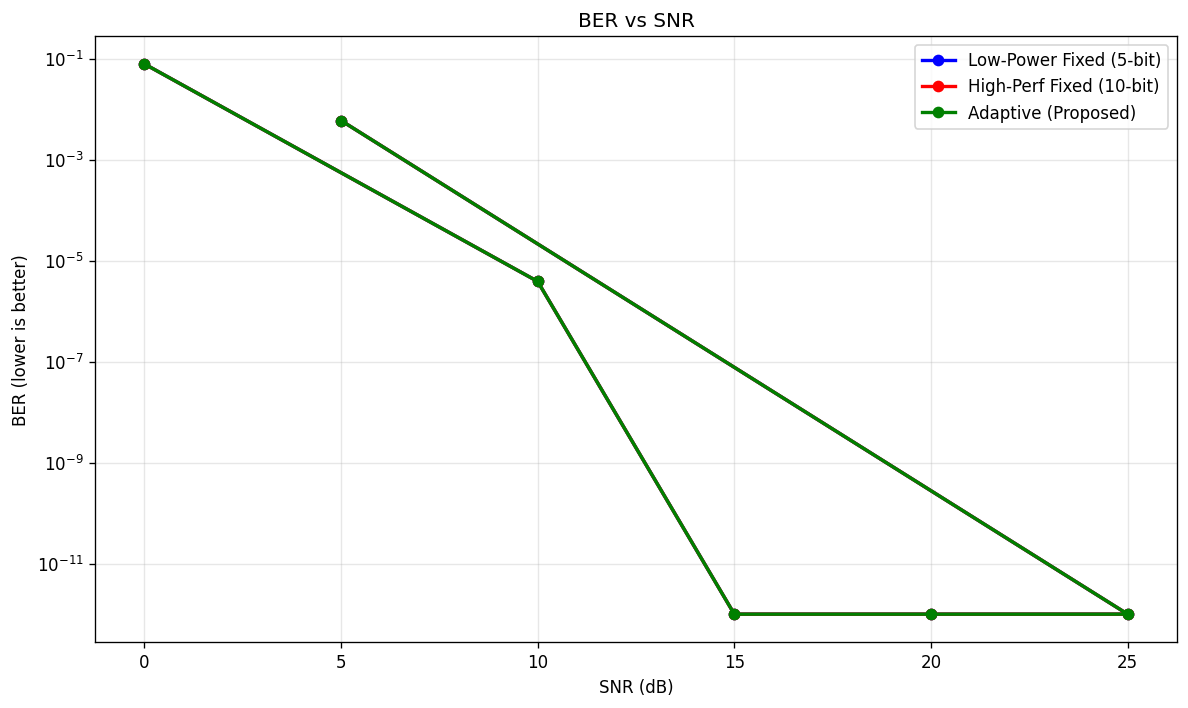
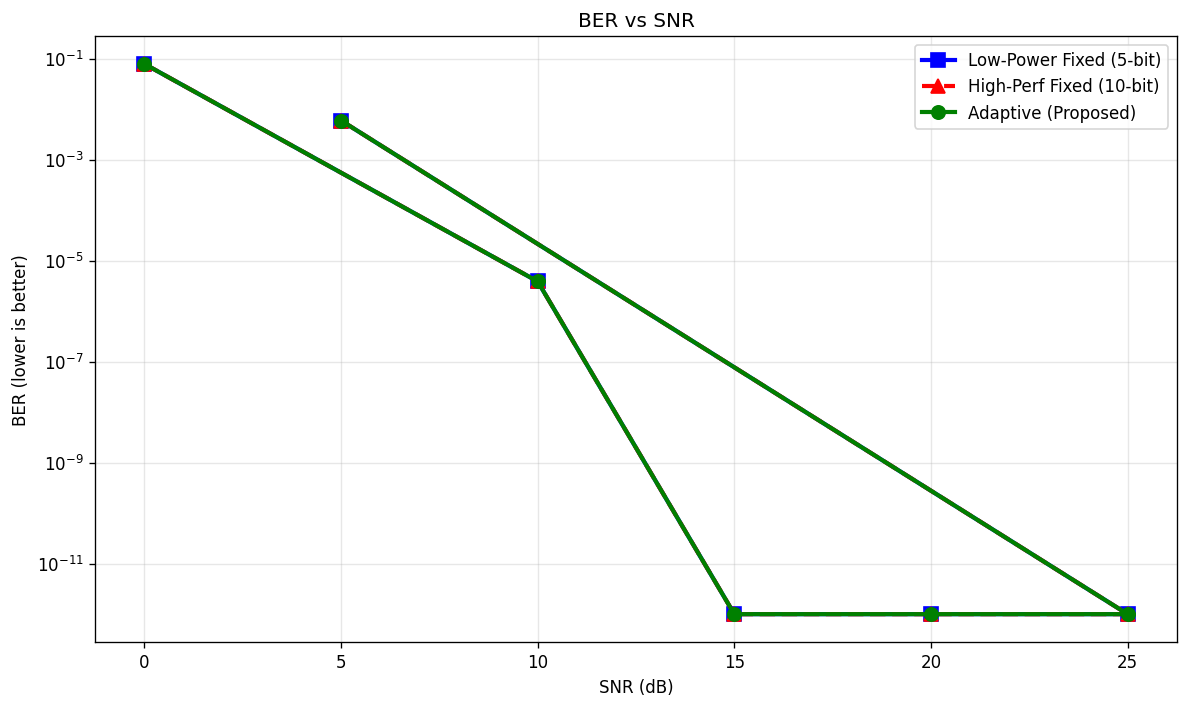
Improve graph visualization with distinct markers and line styles
- Add different markers per model: square (LP), triangle (HP), circle (Adaptive)
- Add dashed line for High-Perf model to distinguish overlapping lines
- Fix SNR range handling: merge all SNR keys from all models
- Handle missing SNR data points gracefully (None filtering)
- Increase line width and marker size for better visibility
- Remove debug output from graph generation

This fixes the issue where:
1. Adaptive line covered LP/HP lines completely (now distinguishable)
2. Adaptive line had gaps between 10-15 dB (expected behavior for traffic-specific SNR)

diff --git a/main_agc_system.py b/main_agc_system.py
@@ -887,17 +887,29 @@ def plot_three_metrics_models(metrics_by_model: Dict[str, Dict[str, float]], out
     """3개 주요 메트릭 그래프: Energy, BER, Latency (SNR별 선 그래프)"""
     model_names = list(metrics_by_model.keys())
     colors = {'Low-Power Fixed (5-bit)': 'blue', 'High-Perf Fixed (10-bit)': 'red', 'Adaptive (Proposed)': 'green'}
+    linestyles = {'Low-Power Fixed (5-bit)': '-', 'High-Perf Fixed (10-bit)': '--', 'Adaptive (Proposed)': '-'}
+    markers = {'Low-Power Fixed (5-bit)': 's', 'High-Perf Fixed (10-bit)': '^', 'Adaptive (Proposed)': 'o'}
 
-    # SNR 범위 추출
-    snr_keys = sorted(metrics_by_model[model_names[0]]["ber_by_snr"].keys())
+    # 모든 모델의 SNR 값을 합쳐서 전체 SNR 범위 추출
+    all_snr_keys = set()
+    for model_name in model_names:
+        all_snr_keys.update(metrics_by_model[model_name]["ber_by_snr"].keys())
+    snr_keys = sorted(all_snr_keys)
     snr_values = [int(k.replace("snr_", "").replace("db", "")) for k in snr_keys]
 
     # 1) Digital Energy vs SNR
     plt.figure(figsize=(10,6))
     for model_name in model_names:
-        energy_values = [metrics_by_model[model_name]["energy_by_snr"][snr_key] for snr_key in snr_keys]
-        color = colors.get(model_name, 'gray')
-        plt.plot(snr_values, energy_values, marker='o', label=model_name, linewidth=2, color=color)
+        energy_values = [metrics_by_model[model_name]["energy_by_snr"].get(snr_key, None) for snr_key in snr_keys]
+        # None 값 제거
+        valid_points = [(snr, energy) for snr, energy in zip(snr_values, energy_values) if energy is not None]
+        if valid_points:
+            x_vals, y_vals = zip(*valid_points)
+            color = colors.get(model_name, 'gray')
+            linestyle = linestyles.get(model_name, '-')
+            marker = markers.get(model_name, 'o')
+            plt.plot(x_vals, y_vals, marker=marker, label=model_name, linewidth=2.5,
+                    color=color, linestyle=linestyle, markersize=8)
 
     plt.title('Digital Energy vs SNR')
     plt.xlabel('SNR (dB)')
@@ -912,9 +924,16 @@ def plot_three_metrics_models(metrics_by_model: Dict[str, Dict[str, float]], out
     # 2) BER vs SNR
     plt.figure(figsize=(10,6))
     for model_name in model_names:
-        ber_values = [metrics_by_model[model_name]["ber_by_snr"][snr_key] for snr_key in snr_keys]
-        color = colors.get(model_name, 'gray')
-        plt.plot(snr_values, ber_values, marker='o', label=model_name, linewidth=2, color=color)
+        ber_values = [metrics_by_model[model_name]["ber_by_snr"].get(snr_key, None) for snr_key in snr_keys]
+        # None 값 제거
+        valid_points = [(snr, ber) for snr, ber in zip(snr_values, ber_values) if ber is not None]
+        if valid_points:
+            x_vals, y_vals = zip(*valid_points)
+            color = colors.get(model_name, 'gray')
+            linestyle = linestyles.get(model_name, '-')
+            marker = markers.get(model_name, 'o')
+            plt.plot(x_vals, y_vals, marker=marker, label=model_name, linewidth=2.5,
+                    color=color, linestyle=linestyle, markersize=8)
 
     plt.title('BER vs SNR')
     plt.xlabel('SNR (dB)')
@@ -930,9 +949,16 @@ def plot_three_metrics_models(metrics_by_model: Dict[str, Dict[str, float]], out
     # 3) Latency vs SNR
     plt.figure(figsize=(10,6))
     for model_name in model_names:
-        latency_values = [metrics_by_model[model_name]["latency_by_snr"][snr_key] for snr_key in snr_keys]
-        color = colors.get(model_name, 'gray')
-        plt.plot(snr_values, latency_values, marker='o', label=model_name, linewidth=2, color=color)
+        latency_values = [metrics_by_model[model_name]["latency_by_snr"].get(snr_key, None) for snr_key in snr_keys]
+        # None 값 제거
+        valid_points = [(snr, latency) for snr, latency in zip(snr_values, latency_values) if latency is not None]
+        if valid_points:
+            x_vals, y_vals = zip(*valid_points)
+            color = colors.get(model_name, 'gray')
+            linestyle = linestyles.get(model_name, '-')
+            marker = markers.get(model_name, 'o')
+            plt.plot(x_vals, y_vals, marker=marker, label=model_name, linewidth=2.5,
+                    color=color, linestyle=linestyle, markersize=8)
 
     plt.title('Latency vs SNR')
     plt.xlabel('SNR (dB)')
@@ -958,9 +984,14 @@ def plot_extended_metrics(metrics_by_model: Dict[str, Dict], outdir: str = "."):
     """
     model_names = list(metrics_by_model.keys())
     colors = {'Low-Power Fixed (5-bit)': 'blue', 'High-Perf Fixed (10-bit)': 'red', 'Adaptive (Proposed)': 'green'}
+    linestyles = {'Low-Power Fixed (5-bit)': '-', 'High-Perf Fixed (10-bit)': '--', 'Adaptive (Proposed)': '-'}
+    markers = {'Low-Power Fixed (5-bit)': 's', 'High-Perf Fixed (10-bit)': '^', 'Adaptive (Proposed)': 'o'}
 
-    # SNR 범위 추출
-    snr_keys = sorted(metrics_by_model[model_names[0]]["ber_by_snr"].keys())
+    # 모든 모델의 SNR 값을 합쳐서 전체 SNR 범위 추출
+    all_snr_keys = set()
+    for model_name in model_names:
+        all_snr_keys.update(metrics_by_model[model_name]["ber_by_snr"].keys())
+    snr_keys = sorted(all_snr_keys)
     snr_values = [int(k.replace("snr_", "").replace("db", "")) for k in snr_keys]
 
     # 4) Operations vs SNR (Additions, Multiplications)
@@ -968,9 +999,15 @@ def plot_extended_metrics(metrics_by_model: Dict[str, Dict], outdir: str = "."):
 
     # Additions
     for model_name in model_names:
-        add_values = [metrics_by_model[model_name]["operations_by_snr"][snr_key]["additions"] for snr_key in snr_keys]
-        color = colors.get(model_name, 'gray')
-        ax1.plot(snr_values, add_values, marker='o', label=model_name, linewidth=2, color=color)
+        add_values = [metrics_by_model[model_name]["operations_by_snr"].get(snr_key, {}).get("additions", None) for snr_key in snr_keys]
+        valid_points = [(snr, adds) for snr, adds in zip(snr_values, add_values) if adds is not None]
+        if valid_points:
+            x_vals, y_vals = zip(*valid_points)
+            color = colors.get(model_name, 'gray')
+            linestyle = linestyles.get(model_name, '-')
+            marker = markers.get(model_name, 'o')
+            ax1.plot(x_vals, y_vals, marker=marker, label=model_name, linewidth=2.5,
+                    color=color, linestyle=linestyle, markersize=8)
 
     ax1.set_title('Additions vs SNR')
     ax1.set_xlabel('SNR (dB)')
@@ -980,9 +1017,15 @@ def plot_extended_metrics(metrics_by_model: Dict[str, Dict], outdir: str = "."):
 
     # Multiplications
     for model_name in model_names:
-        mult_values = [metrics_by_model[model_name]["operations_by_snr"][snr_key]["multiplications"] for snr_key in snr_keys]
-        color = colors.get(model_name, 'gray')
-        ax2.plot(snr_values, mult_values, marker='o', label=model_name, linewidth=2, color=color)
+        mult_values = [metrics_by_model[model_name]["operations_by_snr"].get(snr_key, {}).get("multiplications", None) for snr_key in snr_keys]
+        valid_points = [(snr, mults) for snr, mults in zip(snr_values, mult_values) if mults is not None]
+        if valid_points:
+            x_vals, y_vals = zip(*valid_points)
+            color = colors.get(model_name, 'gray')
+            linestyle = linestyles.get(model_name, '-')
+            marker = markers.get(model_name, 'o')
+            ax2.plot(x_vals, y_vals, marker=marker, label=model_name, linewidth=2.5,
+                    color=color, linestyle=linestyle, markersize=8)
 
     ax2.set_title('Multiplications vs SNR')
     ax2.set_xlabel('SNR (dB)')
